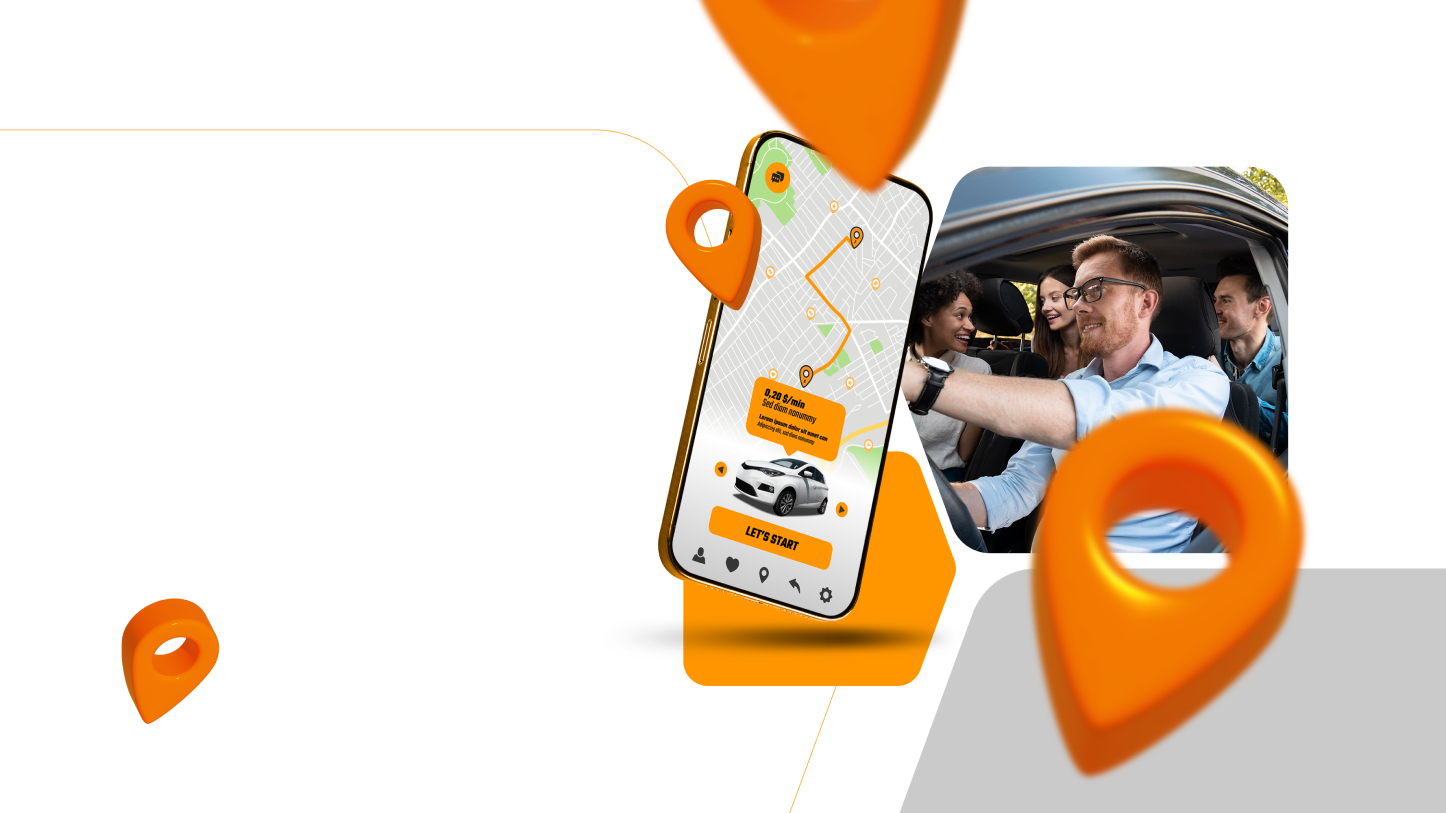
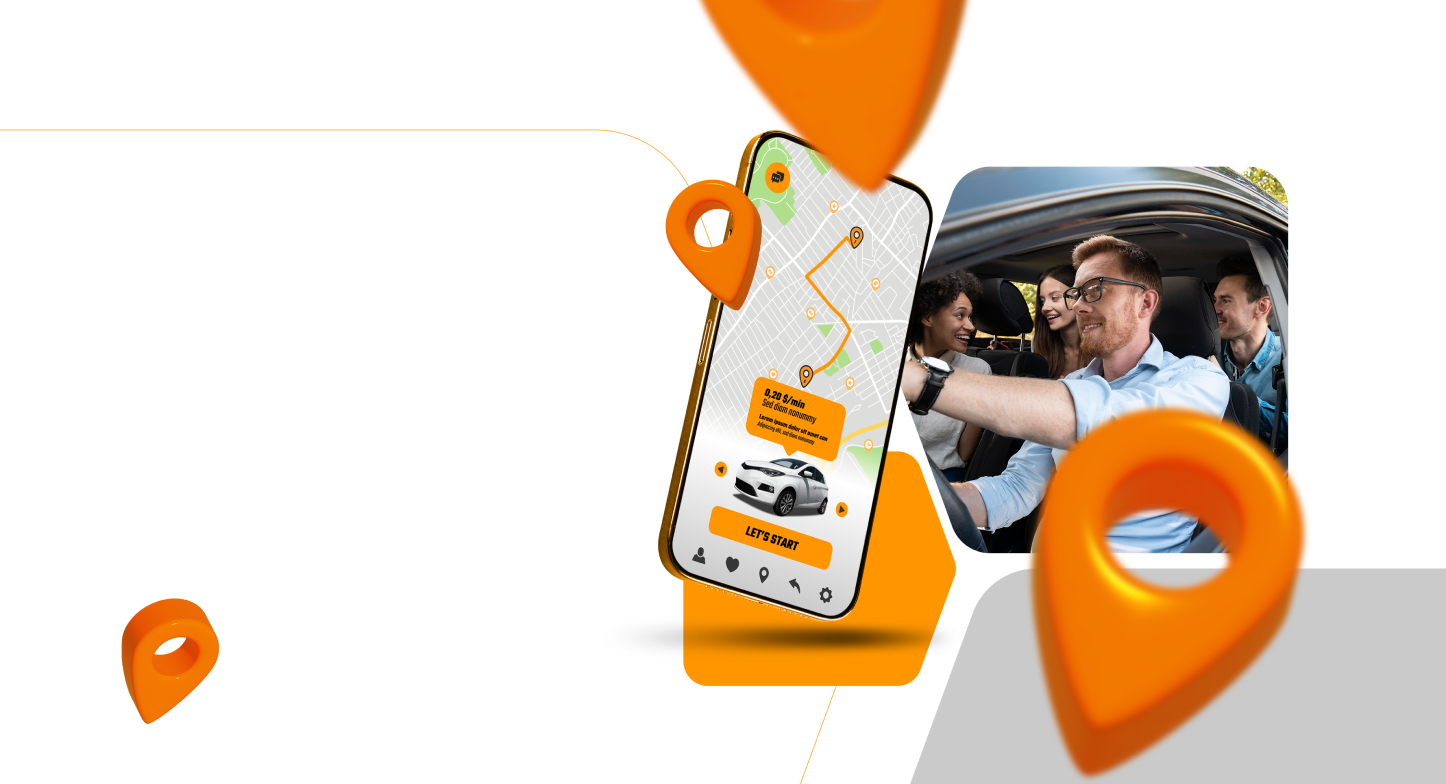
done

diff --git a/css/style.css b/css/style.css
@@ -7,8 +7,9 @@
 
 body {
   background-image: url('/images/background.png');
-  background-size: 100%;
+  background-repeat: no-repeat;
   font-family: Poppins, sans-serif;
+  padding-bottom: 20px;
 }
 
 .logo {
@@ -126,7 +127,7 @@ nav a {
 .image {
   position: relative;
   max-width: 100%;
-  margin-top: -193px;
+  margin-top: -355px;
   margin-left: 30px;
   z-index: -1;
 }
@@ -274,9 +275,58 @@ ol{
 }
 
 /* On smaller screens, decrease text size */
-@media only screen and (max-width: 300px) {
-  .menu{
-    display: none;
+@media only screen and (max-width: 1024px) {
+  
+  .left-menu{
+    margin-left: 14em;
   }
 
+  .image {
+    max-width: 90%;
+    margin-top: -268px;
+    margin-left: 134px;
+}
+
+.text-section {
+  width: 30%;
+  margin-left: 230px;
+  top: -35px;
+}
+.light {
+  font-size: 35px;
+  line-height: 1.1em;
+}
+.bold {
+  font-size: 60px;
+}
+.light2 {
+  font-size: 35px;
+}
+p{
+  margin-left: -75px;
+  margin-top: -20px;
+}
+ol {
+  text-align: center;
+  margin-top: 30px;
+}
+
+.pointer {
+  width: 165px;
+  margin-top: -175px;
+}
+
+}
+
+@media only screen and (max-width: 768px) {
+
+  .logo{
+    height: 150px;
+  }
+  nav a {
+    margin: 0 12px;
+  }
+  nav ul {
+    font-size: 12px;
+}
 }

diff --git a/index.html b/index.html
@@ -41,12 +41,12 @@
   <main>
     <div class="slideshow-container">
       <div class="mySlides fade">
-        <img class="image" src="images/slider2.png">
+        <img class="image" src="images/slider1.png">
         <div class="text-section">
           <h1 class="light">ARE YOU <span class="bold">READY <br>&nbsp;TO DRIVE?</span>
           <h1 class="light2">BEST SERVICE</h1>
           <br><br>
-          <P style="text-align: right inherit;">Lorem ipsum dolor sit amet consectetur adipisicing elit. Harum laboriosam animi
+          <P>Lorem ipsum dolor sit amet consectetur adipisicing elit. Harum laboriosam animi
             atque eveniet quam ex beatae rem dolorum voluptas repellendus? Fuga est nobis earum
             consequatur tempore cumque.
             Sunt, itaque quisquam!
